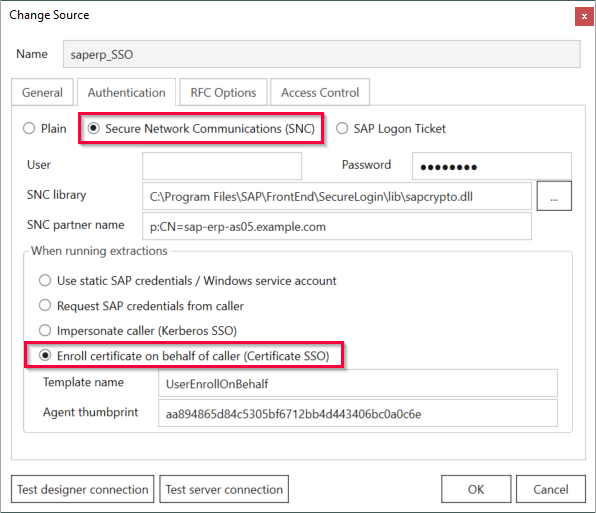
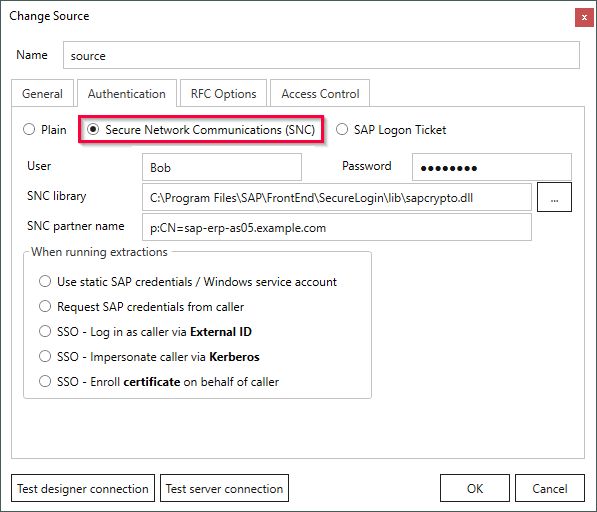
draft

Changed region(s): [[0.0, 0.0, 1.0, 1.0], [0.0302, 0.5312, 0.9362, 0.8438], [0.0, 0.9062, 0.4832, 1.0]]

diff --git a/content/_xtract-universal/sso-with-external-id.md b/content/_xtract-universal/sso-with-external-id.md
@@ -1,0 +1,88 @@
+---
+layout: page
+title: SSO with External ID
+description: SSO with External ID
+permalink: /:collection/:path
+weight: 154
+---
+
+This article describes the required steps for setting up Single Sign-On (SSO) with Secure Network Communication (SNC) and External IDs.
+
+{: .box-warning }
+**Warning!  Single Sign-On availability** <br> 
+ABAP application server has to run on a Windows OS and SNC with Kerberos encryption setup on SAP. <br>
+
+### Requirements
+
+The usage of SSO with External ID requires:
+- Installation of the SAP Cryptographic Library, see [SAP Documentation: Downloading and Installing the SAP Cryptographic Library](https://help.sap.com/docs/SAP_IDENTITY_MANAGEMENT/4773a9ae1296411a9d5c24873a8d418c/3d4ece540ae64e30997498025e37f686.html?locale=en-US) is installed on your ABAP system.
+- The environment variable SECUDIR must be set to the PSE directory of the service account that runs Xtract Universal.
+- Windows AD users must be mapped to SAP users in the SAP table USRACL.
+- The Xtract Universal service must run under a Windows AD Service account, see [Run an Xtract Universal Service under a Windows Service Account](https://help.theobald-software.com/en/xtract-universal/advanced-techniques/service-account).
+- Set up access restrictions for the Xtract Universal Designer and the Xtract Universal server, see [Restrict Access to Windows AD Users (Kerberos Authentication)](https://help.theobald-software.com/en/xtract-universal/security/server-security#restrict-access-to-windows-ad-users-kerberos-authentication).<br>
+
+### The Process
+
+SSO with External ID uses an X.509 certificate & PSE to create a trust relationship between the SAP application server and the service account that runs Xtract Universal.
+This allows Xtract Universal to impersonate any SAP user.
+<!---
+Xtract Universal first logs into SAP as a technical communication user and checks for an SNC mapping of the caller's Windows identity in SAP table USRACL.
+If the Windows user is found, Xtract Universal logs in as the mapped SAP user and performs the actual extraction.
+--->
+
+1. Users authenticate themselves against Xtract Universal via Active Directory (Kerberos) and request data from SAP.
+2. Xtract Universal opens an RFC connection via SNC und uses the X.509 certificate of the PSE for authentication.
+3. Xtract Universal impersonates the SAP technical communication user using the External ID mechanism of SAP.
+4. Xtract Universal reads the SAP table USRACL to determine the SAP user that is mapped to the Active Directory user from step 1.
+5. Xtract Universal then impersonates the SAP user from the USRACL table using the External ID mechanism of SAP.
+6. Xtract Universal retrieves the requested SAP data.
+
+
+### Setup in SAP
+
+An SAP technical communication user with privileges to read table USRACL via the function module RFC_READ_TABLE.
+
+1. Use the [SAPGENPSE](https://help.sap.com/doc/saphelp_nw73ehp1/7.31.19/en-US/48/4cf29fdac612e8e10000000a42189b/frameset.htm) command like tool to generate an X.509 certificate for the Windows service account that runs Xtract Universal. 
+Use the following format: <br>`sapgenpse get_pse <additional_options> -p <PSE_Name> –r <cert_req_file_name> -x <PIN> <Distinguished_Name>`.
+2. Use SAP transaction [STRUST](https://help.sap.com/saphelp_ewm900/helpdata/en/4c/5bdb17f85640f1e10000000a42189c/frameset.htm) to add the certificate to the list of trusted certificates.
+3. Use SAP transaction SNC0 to create an access control list that allows RFC and external IDs for the certificate created in step 1.
+
+### Setup in Xtract Universal
+
+Create a new SAP source system in your Xtract product to set up SSO with External ID:
+
+1. Navigate to **[Server > Manage Sources]** in the main menu of the Designer. The window "Manage Sources" opens.
+2. Click **[Add]** to create a new SAP source.
+3. Open the tab *General* and enter the connection details of your SAP system. <br>
+![SAP-Source-Details](/img/contents/xu/sap_source-details.png){:class="img-responsive"}
+4. Open the tab *Authentication* and activate the option **Secure Network Communications (SNC)**.<br>
+![sso-certificate-auth](/img/contents/sso-certificate-auth.png){:class="img-responsive"}
+4. Enter the name of the technical communication user in the field **User**, see step 4 in [Process](#process).
+5. Enter the complete path to the SAP cryptographic library in the field **SNC Library**, e.g. `C:\Program Files\SAP\FrontEnd\SecureLogin\lib\sapcrypto.dll`
+6. Enter the SPN of the SAP service account in the field **SNC partner name**. Use the following notation: `p:[SPN]@[Domain-FQDN-Uppercase]`. 
+7. Enable the option **SSO - Log in as caller via External ID**.
+8. Click **[Test Connection]** to verify your connection settings.
+9. Click **[OK]** to save your changes.
+10. Make sure that access to the Xtract Universal Designer and the Xtract Universal server is restricted to Windows AD users, see [Restrict Access to Windows AD Users (Kerberos Authentication)](https://help.theobald-software.com/en/xtract-universal/security/server-security#restrict-access-to-windows-ad-users-kerberos-authentication).<br>
+
+
+<!---
+#### Server Settings in Xtract Universal
+
+The following configuration is required in Xtract Universal:
+
+1. Navigate to **[Server > Settings]** in the main menu of the Designer. The window "Server Settings" opens.
+2. Open the *Web Server* tab.
+3. Select **HTTPS - Restricted to AD users with Designer read access**.
+4. Open to the *Configuration Server* tab.
+5. Select **Restrict Designer access to the following users/groups**.
+6. Add the Windows AD users that are allowed to execute an extraction and assign access rights. Assign at least Read permission to the Windows AD users. 
+For more information on access management in Xtract Universal see [Online Help: Access Management](https://help.theobald-software.com/en/xtract-universal/security/access-management#server-settings). 
+7. Click **[OK]**. When propted, restart the server to save your changes.
+
+For more information on restricting access to Xtract Universal to Windows AD users, see [Online Help: Server Security](https://help.theobald-software.com/en/xtract-universal/security/server-security).
+--->
+
+### Related Links
+- [Online Help: X.509 certificate](https://help.theobald-software.com/en/xtract-universal/security/install-x.509-Certificate)
+- [Running the Xtract Universal Service under a Windows Service Account](https://help.theobald-software.com/en/xtract-universal/advanced-techniques/service-account).

diff --git a/content/_xtract-universal/sso-with-client-certificates.md b/content/_xtract-universal/sso-with-client-certificates.md
@@ -59,7 +59,8 @@ Create a new SAP source system in your Xtract product to set up SSO with client 
 The SAP Crypto Library is installed as part of the SAP Secure Login Client.
 6. Enter the SNC partner name of the SAP system in the field **SNC partner name**. 
 This is the same partner name as the SNC name used to set up the SAP GUI.
-7. Activate the option **Enroll certificate on behalf of caller (Certificate SSO)**.
+7. Activate the option **Enroll certificate on behalf of caller (Certificate SSO)**.<br>
+![sso-certificate-auth2](/img/contents/sso-certificate-auth2.png){:class="img-responsive"}
 8. Enter the technical name of the Active Directory Certificate Template used to authenticate SAP users.
 9. Enter the thumbprint of the certificate of the enrollment agent.
 If you don't know the name or thumbprint, consult the IT department that manages the Active Directory Certificate Services.
